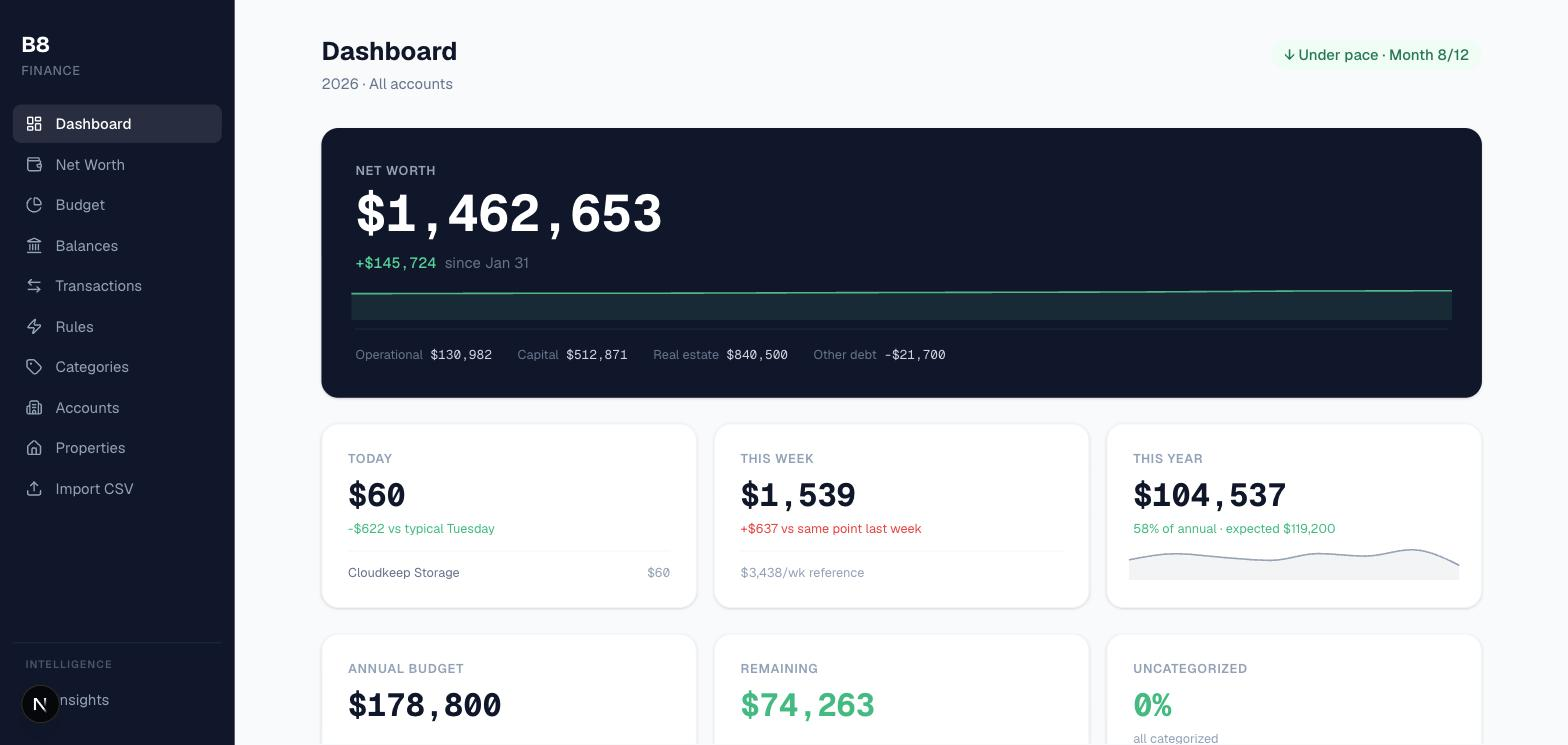
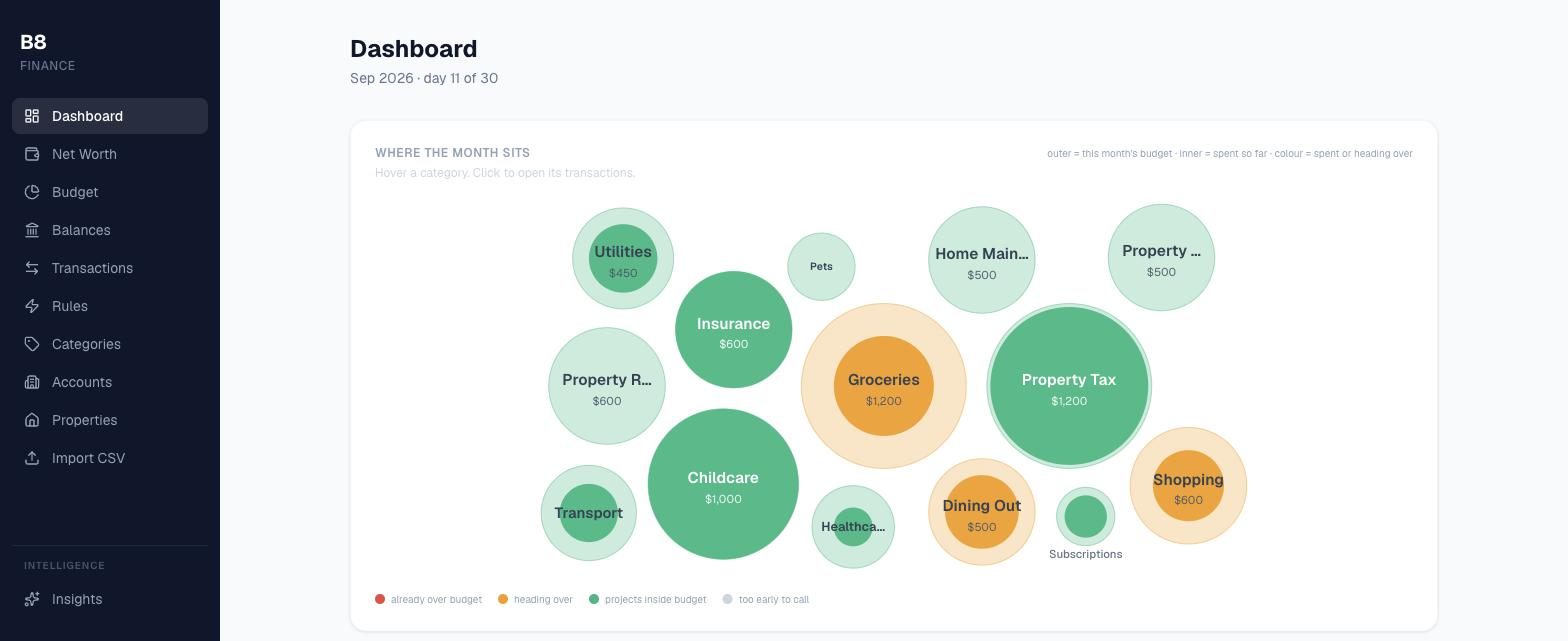
Recapture the two screenshots that showed a product no longer shipped
P0.5-31 moved net worth off the dashboard and put the month's per-category
position in its place, and README.md's captions were rewritten in that diff to
describe it. The images were not, because regenerating them per README section
77 means backing up, truncating and restoring the database that holds real
financial data — a BUILD.md 5.1 escalation, adjudicated at G0 as A1 and left as
an owner action. A corrected caption has been sitting beside a stale image ever
since.

The destructive sequence was not needed and was not performed. README section 79
already documents the alternative: a scratch database with DATABASE_URL
overridden in the environment, which both seed-demo.mjs and Next honour ahead of
.env.local. The real database was read twice, for row counts, and never written.

Provenance was checked before the shutter rather than assumed after it. The
served data was confirmed to be the demo set — 21 categories against the real
database's 36 — and the captured net worth reads $1,462,864, which is not the
owner's figure and not close to it. Every bank, merchant, property and balance in
both images comes from seed-demo.mjs.

Served from a production build of a copy of the repo, because a next dev server
was already running against the real database and Next 16 refuses a second dev
server from the same directory. A production build also keeps the dev indicator
out of the frame.

One thing A1 did not anticipate: the new images are 1568x641 where the five
[…]

diff --git a/plan/tasks/P0.5-31-dashboard-repoint/EVIDENCE.md b/plan/tasks/P0.5-31-dashboard-repoint/EVIDENCE.md
@@ -1302,6 +1302,28 @@ screenshot, and I never ran `npm run seed:demo` against `.env.local`.**
 The seed half of the screenshot work **is** in this diff and is verified to produce a renderable
 dashboard (§11), so the capture is a photograph, not a debugging session.
 
+**DISCHARGED 2026-09-11.** `docs/screenshots/dashboard.jpg` and `net-worth.jpg` are recaptured and
+show the re-pointed product: the dashboard opens on "where the month sits" per category, and the
+net-worth figure appears only on `/net-worth`.
+
+**The destructive sequence was never performed.** A1 escalated because README §77's procedure backs
+up, truncates and restores the database holding real financial data. README §79 already documents
+the alternative that avoids it, and that is the one used: a scratch `b8_demo`, migrated and seeded
+with `DATABASE_URL` overridden in the environment, which both `seed-demo.mjs` and Next honour over
+`.env.local`. `b8_finance` was read twice, for row counts, and never written. The served data was
+confirmed to be the demo set before capture — 21 categories against the real database's 36 — and
+the captured net worth reads $1,462,864, not the real figure.
+
+The pages were served from a production build of a copy of the repo, because a `next dev` server was
+already running against the real database and Next 16 refuses a second dev server from the same
+directory. A production build also keeps the dev indicator out of the images.
+
+**One thing changed that A1 did not anticipate:** the new images are 1568×641, where the five
+untouched ones are 1568×745. This display cannot produce a 745px viewport — `screen.availHeight` is
+818 and browser chrome takes the rest. The README lays the images out in a table that scales them to
+the column width, so the cost is a slightly shorter first row. Recorded rather than hidden, since
+the alternative was upscaling a 641px capture into a 745px frame and calling it a photograph.
+
 ---
 
 ## 15. The diff
